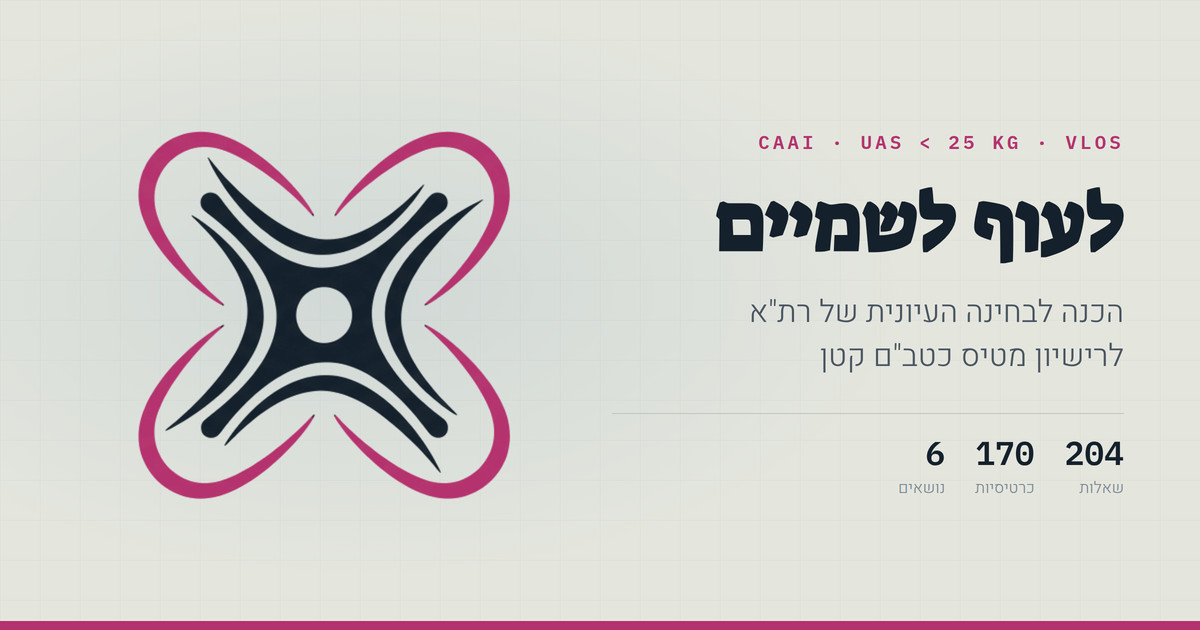
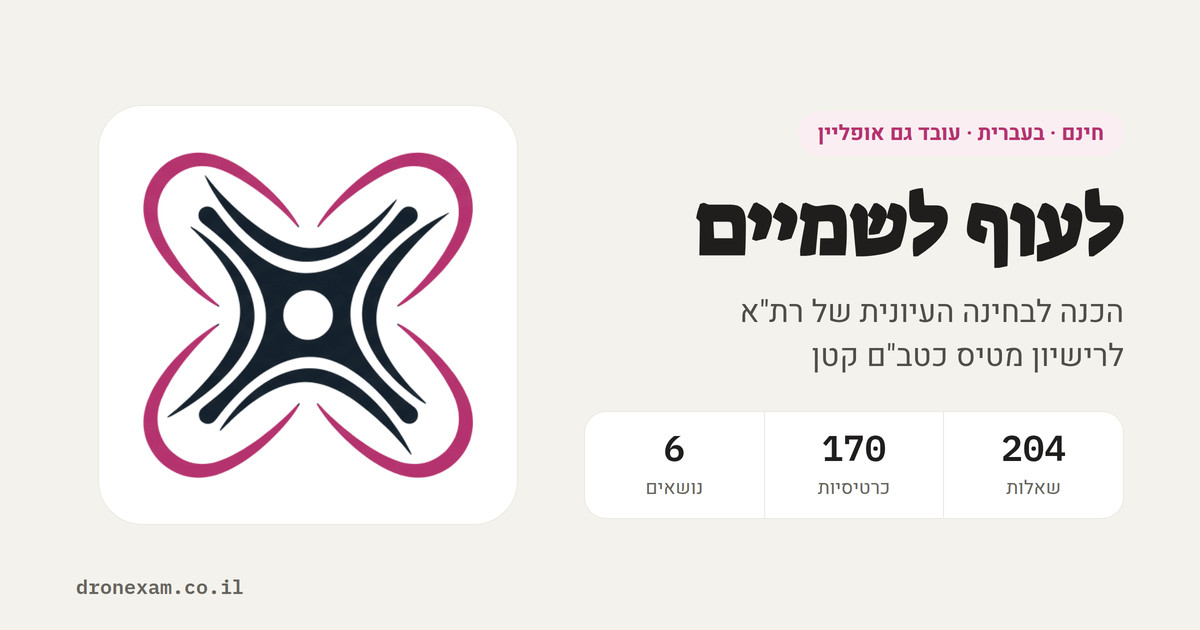
תמונת התצוגה המקדימה (וואטסאפ) בעיצוב החדש (#17)
- פלטת הנייר החם של האתר במקום האפור-ירקרק, בלי רשת הרקע והפס התחתון
- הלוגו באריח לבן מעוגל, המספרים בכרטיס כמו באפליקציה, ותגית
  "חינם · בעברית · עובד גם אופליין" במקום שורת הקוד באנגלית
- cover.jpg?v=3 בכל הדפים, כדי שוואטסאפ לא ימשיך להציג את התמונה הישנה
  מהמטמון שלו. הנוהל מתועד ב-render.py

Claude-Session: https://claude.ai/code/session_01UrGGvR9XU2NichaSrLhpm8

diff --git a/tools/og-image/template.html b/tools/og-image/template.html
@@ -5,62 +5,60 @@
 <!-- תבנית תמונת ה-OG (1200x630). מרונדרת ל-assets/og/cover.jpg על ידי render.py.
      הפלטה זהה לפלטת האתר, כדי שהתצוגה המקדימה תיראה כמו הדף שנפתח אחרי הקליק. -->
 <style>
-@font-face{font-family:'Heebo';font-weight:300;src:url(../../assets/fonts/heebo-300-hebrew.woff2) format('woff2');}
-@font-face{font-family:'HeeboLatin';font-weight:300;src:url(../../assets/fonts/heebo-300-latin.woff2) format('woff2');}
+@font-face{font-family:'Heebo';font-weight:100 900;src:url(../../assets/fonts/heebo-300-hebrew.woff2) format('woff2');}
+@font-face{font-family:'HeeboLatin';font-weight:100 900;src:url(../../assets/fonts/heebo-300-latin.woff2) format('woff2');}
 @font-face{font-family:'Suez One';src:url(../../assets/fonts/suezone-400-hebrew.woff2) format('woff2');}
 @font-face{font-family:'Suez One';src:url(../../assets/fonts/suezone-400-latin.woff2) format('woff2');unicode-range:U+0000-00FF;}
 @font-face{font-family:'Plex';font-weight:600;src:url(../../assets/fonts/ibmplexmono-600-latin.woff2) format('woff2');}
 
 :root{
-  --paper:#E4E6DE; --ink:#14202B; --ink-2:#4A5561; --ink-3:#7C8792;
-  --hair:#C3C8BE; --magenta:#B4326D; --blue:#22608F;
+  --paper:#F4F2EC; --surface:#FFFFFF; --ink:#1F1E1D; --ink-2:#4F4D48; --ink-3:#66645E;
+  --hair:#DEDAD0; --hair-2:#ECE9E1; --magenta:#B4326D; --tint-mag:#FAEEF3;
 }
 *{margin:0;padding:0;box-sizing:border-box}
 html,body{width:1200px;height:630px}
 body{background:var(--paper);font-family:'Heebo','HeeboLatin',sans-serif;overflow:hidden;position:relative}
 
-.bg{position:absolute;inset:0}
-.stage{position:absolute;inset:0;display:flex;align-items:center;padding:0 76px;gap:40px}
+.stage{position:absolute;inset:0;display:flex;align-items:center;padding:0 76px;gap:44px}
 
-.txt{width:512px;flex:none}
-.eyebrow{
-  font-family:'Plex',monospace;font-weight:600;font-size:19px;letter-spacing:.17em;
-  color:var(--magenta);text-transform:uppercase;direction:ltr;text-align:right;margin-bottom:26px;
+.txt{width:540px;flex:none}
+.pill{
+  display:inline-block;font-weight:700;font-size:21px;color:var(--magenta);
+  background:var(--tint-mag);border-radius:999px;padding:7px 20px;margin-bottom:24px;
 }
-h1{font-family:'Suez One',serif;font-size:82px;line-height:1.06;color:var(--ink);letter-spacing:-.01em}
-.sub{font-size:31px;line-height:1.42;color:var(--ink-2);font-weight:300;margin-top:24px}
+h1{font-family:'Suez One',serif;font-size:86px;line-height:1.06;color:var(--ink);letter-spacing:-.01em}
+.sub{font-size:31px;line-height:1.42;color:var(--ink-2);font-weight:400;margin-top:20px}
 
-/* שורת המספרים — לעדכן כאן כשהתוכן גדל, ואז להריץ שוב את render.py */
-.meta{margin-top:34px;padding-top:22px;border-top:1px solid var(--hair);display:flex;gap:30px;direction:rtl}
-.meta div{text-align:right}
-.meta .n{font-family:'Plex',monospace;font-weight:600;font-size:33px;color:var(--ink);line-height:1;direction:ltr}
-.meta .l{font-size:16px;color:var(--ink-3);margin-top:7px}
+/* שורת המספרים, בכרטיס לבן כמו באתר. לעדכן כאן כשהתוכן גדל, ואז להריץ שוב את render.py */
+.meta{
+  margin-top:32px;display:flex;gap:0;direction:rtl;
+  background:var(--surface);border:1.5px solid var(--hair-2);border-radius:22px;overflow:hidden;
+}
+.meta>div{flex:1;text-align:center;padding:18px 10px 16px}
+.meta>div+div{border-inline-start:1.5px solid var(--hair-2)}
+.meta .n{font-family:'Plex',monospace;font-weight:600;font-size:36px;color:var(--ink);line-height:1;direction:ltr}
+.meta .l{font-size:19px;color:var(--ink-3);margin-top:8px}
 
 .art{flex:1;display:flex;align-items:center;justify-content:center}
-.art img{width:372px;height:auto;display:block}
+.art .tile{
+  width:420px;height:420px;border-radius:44px;background:var(--surface);
+  border:1.5px solid var(--hair-2);display:flex;align-items:center;justify-content:center;
+}
+.art img{width:330px;height:auto;display:block}
 
-.bar{position:absolute;bottom:0;left:0;right:0;height:9px;background:var(--magenta)}
+.url{
+  position:absolute;bottom:30px;left:76px;font-family:'Plex',monospace;font-weight:600;
+  font-size:20px;color:var(--ink-3);direction:ltr;
+}
 </style>
 </head>
 <body>
 
-<svg class="bg" viewBox="0 0 1200 630" xmlns="http://www.w3.org/2000/svg">
-  <defs>
-    <radialGradient id="glow" cx="30%" cy="46%" r="46%">
-      <stop offset="0%" stop-color="#22608F" stop-opacity=".10"/>
-      <stop offset="100%" stop-color="#22608F" stop-opacity="0"/>
-    </radialGradient>
-    <pattern id="grid" width="40" height="40" patternUnits="userSpaceOnUse">
-      <path d="M40 0H0V40" fill="none" stroke="#14202B" stroke-opacity=".045" stroke-width="1"/>
-    </pattern>
-  </defs>
-  <rect width="1200" height="630" fill="url(#grid)"/>
-  <rect width="1200" height="630" fill="url(#glow)"/>
-</svg>
+
 
 <div class="stage">
   <div class="txt">
-    <div class="eyebrow">CAAI &middot; UAS &lt; 25 KG &middot; VLOS</div>
+    <div class="pill">חינם · בעברית · עובד גם אופליין</div>
     <h1>לעוף לשמיים</h1>
     <div class="sub">הכנה לבחינה העיונית של רת&quot;א<br>לרישיון מטיס כטב&quot;ם קטן</div>
     <div class="meta">
@@ -70,9 +68,9 @@ h1{font-family:'Suez One',serif;font-size:82px;line-height:1.06;color:var(--ink)
     </div>
   </div>
 
-  <div class="art"><img src="logo-mark.png" alt=""></div>
+  <div class="art"><div class="tile"><img src="logo-mark.png" alt=""></div></div>
 </div>
 
-<div class="bar"></div>
+<div class="url">dronexam.co.il</div>
 </body>
 </html>

diff --git a/index.html b/index.html
@@ -24,8 +24,8 @@
 <meta property="og:url" content="https://dronexam.co.il/">
 <meta property="og:title" content="לעוף לשמיים · הכנה לבחינת רת&quot;א למטיס כטב&quot;ם קטן">
 <meta property="og:description" content="204 שאלות עם הסבר ומקור, 170 כרטיסיות, סימולציית מבחן ומד כשירות לבחינה העיונית לרישיון מטיס כטב&quot;ם קטן. חינם ובעברית.">
-<meta property="og:image" content="https://dronexam.co.il/assets/og/cover.jpg">
-<meta property="og:image:secure_url" content="https://dronexam.co.il/assets/og/cover.jpg">
+<meta property="og:image" content="https://dronexam.co.il/assets/og/cover.jpg?v=3">
+<meta property="og:image:secure_url" content="https://dronexam.co.il/assets/og/cover.jpg?v=3">
 <meta property="og:image:type" content="image/jpeg">
 <meta property="og:image:width" content="1200">
 <meta property="og:image:height" content="630">
@@ -35,7 +35,7 @@
 <meta name="twitter:card" content="summary_large_image">
 <meta name="twitter:title" content="לעוף לשמיים · הכנה לבחינת רת&quot;א למטיס כטב&quot;ם קטן">
 <meta name="twitter:description" content="204 שאלות עם הסבר ומקור, 170 כרטיסיות, סימולציית מבחן ומד כשירות. חינם ובעברית.">
-<meta name="twitter:image" content="https://dronexam.co.il/assets/og/cover.jpg">
+<meta name="twitter:image" content="https://dronexam.co.il/assets/og/cover.jpg?v=3">
 <meta name="twitter:image:alt" content="הלוגו של &quot;לעוף לשמיים&quot;, סמל של רחפן עם ארבעה מדחפים, לצד שם האתר ומספרי התוכן">
 
 <meta name="theme-color" content="#F4F2EC" media="(prefers-color-scheme: light)">
@@ -126,7 +126,7 @@ try{
         "priceCurrency": "ILS",
         "availability": "https://schema.org/InStock"
       },
-      "image": "https://dronexam.co.il/assets/og/cover.jpg"
+      "image": "https://dronexam.co.il/assets/og/cover.jpg?v=3"
     }
   ]
 }

diff --git a/technical-loading/index.html b/technical-loading/index.html
@@ -17,11 +17,11 @@
 <meta property="og:url" content="https://dronexam.co.il/technical-loading/">
 <meta property="og:title" content="ידע טכני והעמסה לכטב&quot;ם קטן: מערכות, העמסה וכשירות | לעוף לשמיים">
 <meta property="og:description" content="מה נכלל בהעמסה ואיך היא משפיעה על הביצועים, ארבעת תחומי בדיקת הכשירות לפי תקנה 19(א), אופן הפעולה של רב-להב ושל כנף קבועה, והמכשירים והמונחים שצריך להכיר.">
-<meta property="og:image" content="https://dronexam.co.il/assets/og/cover.jpg">
+<meta property="og:image" content="https://dronexam.co.il/assets/og/cover.jpg?v=3">
 <meta property="og:image:width" content="1200">
 <meta property="og:image:height" content="630">
 <meta name="twitter:card" content="summary_large_image">
-<meta name="twitter:image" content="https://dronexam.co.il/assets/og/cover.jpg">
+<meta name="twitter:image" content="https://dronexam.co.il/assets/og/cover.jpg?v=3">
 
 <meta name="theme-color" content="#F4F2EC" media="(prefers-color-scheme: light)">
 <meta name="theme-color" content="#1C1B19" media="(prefers-color-scheme: dark)">
@@ -74,7 +74,7 @@ try{
       "isPartOf": {
         "@id": "https://dronexam.co.il/#website"
       },
-      "image": "https://dronexam.co.il/assets/og/cover.jpg",
+      "image": "https://dronexam.co.il/assets/og/cover.jpg?v=3",
       "dateModified": "2026-09-28"
     },
     {

diff --git a/safety-emergency/index.html b/safety-emergency/index.html
@@ -17,11 +17,11 @@
 <meta property="og:url" content="https://dronexam.co.il/safety-emergency/">
 <meta property="og:title" content="בטיחות וחירום בהפעלת כטב&quot;ם קטן: אחריות, תדריך ותקלות | לעוף לשמיים">
 <meta property="og:description" content="אחריות המטיס-המפקד לפי תקנה 22, מה חייב להיכלל בתדריך ומה המשמעות המשפטית שלו, הבדיקות שלפני כל הפעלה ושלושת תרחישי התקלה המרכזיים.">
-<meta property="og:image" content="https://dronexam.co.il/assets/og/cover.jpg">
+<meta property="og:image" content="https://dronexam.co.il/assets/og/cover.jpg?v=3">
 <meta property="og:image:width" content="1200">
 <meta property="og:image:height" content="630">
 <meta name="twitter:card" content="summary_large_image">
-<meta name="twitter:image" content="https://dronexam.co.il/assets/og/cover.jpg">
+<meta name="twitter:image" content="https://dronexam.co.il/assets/og/cover.jpg?v=3">
 
 <meta name="theme-color" content="#F4F2EC" media="(prefers-color-scheme: light)">
 <meta name="theme-color" content="#1C1B19" media="(prefers-color-scheme: dark)">
@@ -74,7 +74,7 @@ try{
       "isPartOf": {
         "@id": "https://dronexam.co.il/#website"
       },
-      "image": "https://dronexam.co.il/assets/og/cover.jpg",
+      "image": "https://dronexam.co.il/assets/og/cover.jpg?v=3",
       "dateModified": "2026-09-28"
     },
     {

diff --git a/aviation-law/index.html b/aviation-law/index.html
@@ -17,11 +17,11 @@
 <meta property="og:url" content="https://dronexam.co.il/aviation-law/">
 <meta property="og:title" content="דיני תעופה לכטב&quot;ם קטן: הגדרות, רישוי ומגבלות | לעוף לשמיים">
 <meta property="og:description" content="ההגדרות, תנאי הרישוי, מגבלות ההפעלה והמרחקים מתוך תקנות הטיס (הפעלת מערכת כטב&quot;ם קטן), התשפ&quot;ד-2024, עם הפניה לתקנה הספציפית בכל סעיף.">
-<meta property="og:image" content="https://dronexam.co.il/assets/og/cover.jpg">
+<meta property="og:image" content="https://dronexam.co.il/assets/og/cover.jpg?v=3">
 <meta property="og:image:width" content="1200">
 <meta property="og:image:height" content="630">
 <meta name="twitter:card" content="summary_large_image">
-<meta name="twitter:image" content="https://dronexam.co.il/assets/og/cover.jpg">
+<meta name="twitter:image" content="https://dronexam.co.il/assets/og/cover.jpg?v=3">
 
 <meta name="theme-color" content="#F4F2EC" media="(prefers-color-scheme: light)">
 <meta name="theme-color" content="#1C1B19" media="(prefers-color-scheme: dark)">
@@ -74,7 +74,7 @@ try{
       "isPartOf": {
         "@id": "https://dronexam.co.il/#website"
       },
-      "image": "https://dronexam.co.il/assets/og/cover.jpg",
+      "image": "https://dronexam.co.il/assets/og/cover.jpg?v=3",
       "dateModified": "2026-09-28"
     },
     {

diff --git a/meteorology/index.html b/meteorology/index.html
@@ -17,11 +17,11 @@
 <meta property="og:url" content="https://dronexam.co.il/meteorology/">
 <meta property="og:title" content="מטאורולוגיה למטיס כטב&quot;ם קטן: עננים, רוח וזרמים | לעוף לשמיים">
 <meta property="og:description" content="חמשת סוגי העננים שצריך לזהות ומה כל אחד מהם מלמד, שני מנגנוני ההיווצרות, תרמיקות ועילוי מדרון, והשפעת הרוח והצפיפות על ההפעלה.">
-<meta property="og:image" content="https://dronexam.co.il/assets/og/cover.jpg">
+<meta property="og:image" content="https://dronexam.co.il/assets/og/cover.jpg?v=3">
 <meta property="og:image:width" content="1200">
 <meta property="og:image:height" content="630">
 <meta name="twitter:card" content="summary_large_image">
-<meta name="twitter:image" content="https://dronexam.co.il/assets/og/cover.jpg">
+<meta name="twitter:image" content="https://dronexam.co.il/assets/og/cover.jpg?v=3">
 
 <meta name="theme-color" content="#F4F2EC" media="(prefers-color-scheme: light)">
 <meta name="theme-color" content="#1C1B19" media="(prefers-color-scheme: dark)">
@@ -74,7 +74,7 @@ try{
       "isPartOf": {
         "@id": "https://dronexam.co.il/#website"
       },
-      "image": "https://dronexam.co.il/assets/og/cover.jpg",
+      "image": "https://dronexam.co.il/assets/og/cover.jpg?v=3",
       "dateModified": "2026-09-28"
     },
     {

diff --git a/altitude-separation/index.html b/altitude-separation/index.html
@@ -17,11 +17,11 @@
 <meta property="og:url" content="https://dronexam.co.il/altitude-separation/">
 <meta property="og:title" content="חישוב גובה והפרדה לכטב&quot;ם קטן לפי השיטה הרשמית | לעוף לשמיים">
 <meta property="og:description" content="ארבעת שלבי החישוב הרשמי, הערכים שמותר ושאסור להשתמש בהם, הדוגמה של רת&quot;א, וארבע הטעויות הנפוצות בחישוב תקרת הטיסה.">
-<meta property="og:image" content="https://dronexam.co.il/assets/og/cover.jpg">
+<meta property="og:image" content="https://dronexam.co.il/assets/og/cover.jpg?v=3">
 <meta property="og:image:width" content="1200">
 <meta property="og:image:height" content="630">
 <meta name="twitter:card" content="summary_large_image">
-<meta name="twitter:image" content="https://dronexam.co.il/assets/og/cover.jpg">
+<meta name="twitter:image" content="https://dronexam.co.il/assets/og/cover.jpg?v=3">
 
 <meta name="theme-color" content="#F4F2EC" media="(prefers-color-scheme: light)">
 <meta name="theme-color" content="#1C1B19" media="(prefers-color-scheme: dark)">
@@ -74,7 +74,7 @@ try{
       "isPartOf": {
         "@id": "https://dronexam.co.il/#website"
       },
-      "image": "https://dronexam.co.il/assets/og/cover.jpg",
+      "image": "https://dronexam.co.il/assets/og/cover.jpg?v=3",
       "dateModified": "2026-09-28"
     },
     {

diff --git a/aviation-english/index.html b/aviation-english/index.html
@@ -17,11 +17,11 @@
 <meta property="og:url" content="https://dronexam.co.il/aviation-english/">
 <meta property="og:title" content="אנגלית טכנית לבחינת כטב&quot;ם: מונחים וקיצורים תעופתיים | לעוף לשמיים">
 <meta property="og:description" content="המונחים באנגלית שמופיעים בתקנות עצמן והקיצורים התעופתיים שנדרשים לבחינה, עם התרגום והמשמעות של כל אחד.">
-<meta property="og:image" content="https://dronexam.co.il/assets/og/cover.jpg">
+<meta property="og:image" content="https://dronexam.co.il/assets/og/cover.jpg?v=3">
 <meta property="og:image:width" content="1200">
 <meta property="og:image:height" content="630">
 <meta name="twitter:card" content="summary_large_image">
-<meta name="twitter:image" content="https://dronexam.co.il/assets/og/cover.jpg">
+<meta name="twitter:image" content="https://dronexam.co.il/assets/og/cover.jpg?v=3">
 
 <meta name="theme-color" content="#F4F2EC" media="(prefers-color-scheme: light)">
 <meta name="theme-color" content="#1C1B19" media="(prefers-color-scheme: dark)">
@@ -74,7 +74,7 @@ try{
       "isPartOf": {
         "@id": "https://dronexam.co.il/#website"
       },
-      "image": "https://dronexam.co.il/assets/og/cover.jpg",
+      "image": "https://dronexam.co.il/assets/og/cover.jpg?v=3",
       "dateModified": "2026-09-28"
     },
     {

diff --git a/tools/pages/render.js b/tools/pages/render.js
@@ -214,7 +214,7 @@ ${(s.i || []).map(x => `      <li>${html(x)}</li>`).join('\n')}
         isAccessibleForFree: true,
         about: { '@type': 'Thing', name: stripTags(subj.name) },
         isPartOf: { '@id': ORIGIN + '/#website' },
-        image: ORIGIN + '/assets/og/cover.jpg',
+        image: ORIGIN + '/assets/og/cover.jpg?v=3',
         dateModified: today(),
       },
       {
@@ -257,11 +257,11 @@ ${(s.i || []).map(x => `      <li>${html(x)}</li>`).join('\n')}
 <meta property="og:url" content="${url}">
 <meta property="og:title" content="${attr(cfg.title)}">
 <meta property="og:description" content="${desc}">
-<meta property="og:image" content="${ORIGIN}/assets/og/cover.jpg">
+<meta property="og:image" content="${ORIGIN}/assets/og/cover.jpg?v=3">
 <meta property="og:image:width" content="1200">
 <meta property="og:image:height" content="630">
 <meta name="twitter:card" content="summary_large_image">
-<meta name="twitter:image" content="${ORIGIN}/assets/og/cover.jpg">
+<meta name="twitter:image" content="${ORIGIN}/assets/og/cover.jpg?v=3">
 
 <meta name="theme-color" content="#F4F2EC" media="(prefers-color-scheme: light)">
 <meta name="theme-color" content="#1C1B19" media="(prefers-color-scheme: dark)">

diff --git a/privacy/index.html b/privacy/index.html
@@ -16,11 +16,11 @@
 <meta property="og:url" content="https://dronexam.co.il/privacy/">
 <meta property="og:title" content="מדיניות פרטיות | לעוף לשמיים">
 <meta property="og:description" content="האתר אינו אוסף מידע אישי, אינו משתמש בעוגיות ואינו מעביר מידע לצד שלישי. ההתקדמות נשמרת במכשיר שלך בלבד.">
-<meta property="og:image" content="https://dronexam.co.il/assets/og/cover.jpg">
+<meta property="og:image" content="https://dronexam.co.il/assets/og/cover.jpg?v=3">
 <meta property="og:image:width" content="1200">
 <meta property="og:image:height" content="630">
 <meta name="twitter:card" content="summary_large_image">
-<meta name="twitter:image" content="https://dronexam.co.il/assets/og/cover.jpg">
+<meta name="twitter:image" content="https://dronexam.co.il/assets/og/cover.jpg?v=3">
 
 <meta name="theme-color" content="#F4F2EC" media="(prefers-color-scheme: light)">
 <meta name="theme-color" content="#1C1B19" media="(prefers-color-scheme: dark)">

diff --git a/accessibility/index.html b/accessibility/index.html
@@ -16,11 +16,11 @@
 <meta property="og:url" content="https://dronexam.co.il/accessibility/">
 <meta property="og:title" content="הצהרת נגישות | לעוף לשמיים">
 <meta property="og:description" content="התאמות הנגישות שבוצעו באתר לפי ת&quot;י 5568 ברמה AA, המגבלות הידועות, ופרטי רכז הנגישות.">
-<meta property="og:image" content="https://dronexam.co.il/assets/og/cover.jpg">
+<meta property="og:image" content="https://dronexam.co.il/assets/og/cover.jpg?v=3">
 <meta property="og:image:width" content="1200">
 <meta property="og:image:height" content="630">
 <meta name="twitter:card" content="summary_large_image">
-<meta name="twitter:image" content="https://dronexam.co.il/assets/og/cover.jpg">
+<meta name="twitter:image" content="https://dronexam.co.il/assets/og/cover.jpg?v=3">
 
 <meta name="theme-color" content="#F4F2EC" media="(prefers-color-scheme: light)">
 <meta name="theme-color" content="#1C1B19" media="(prefers-color-scheme: dark)">
